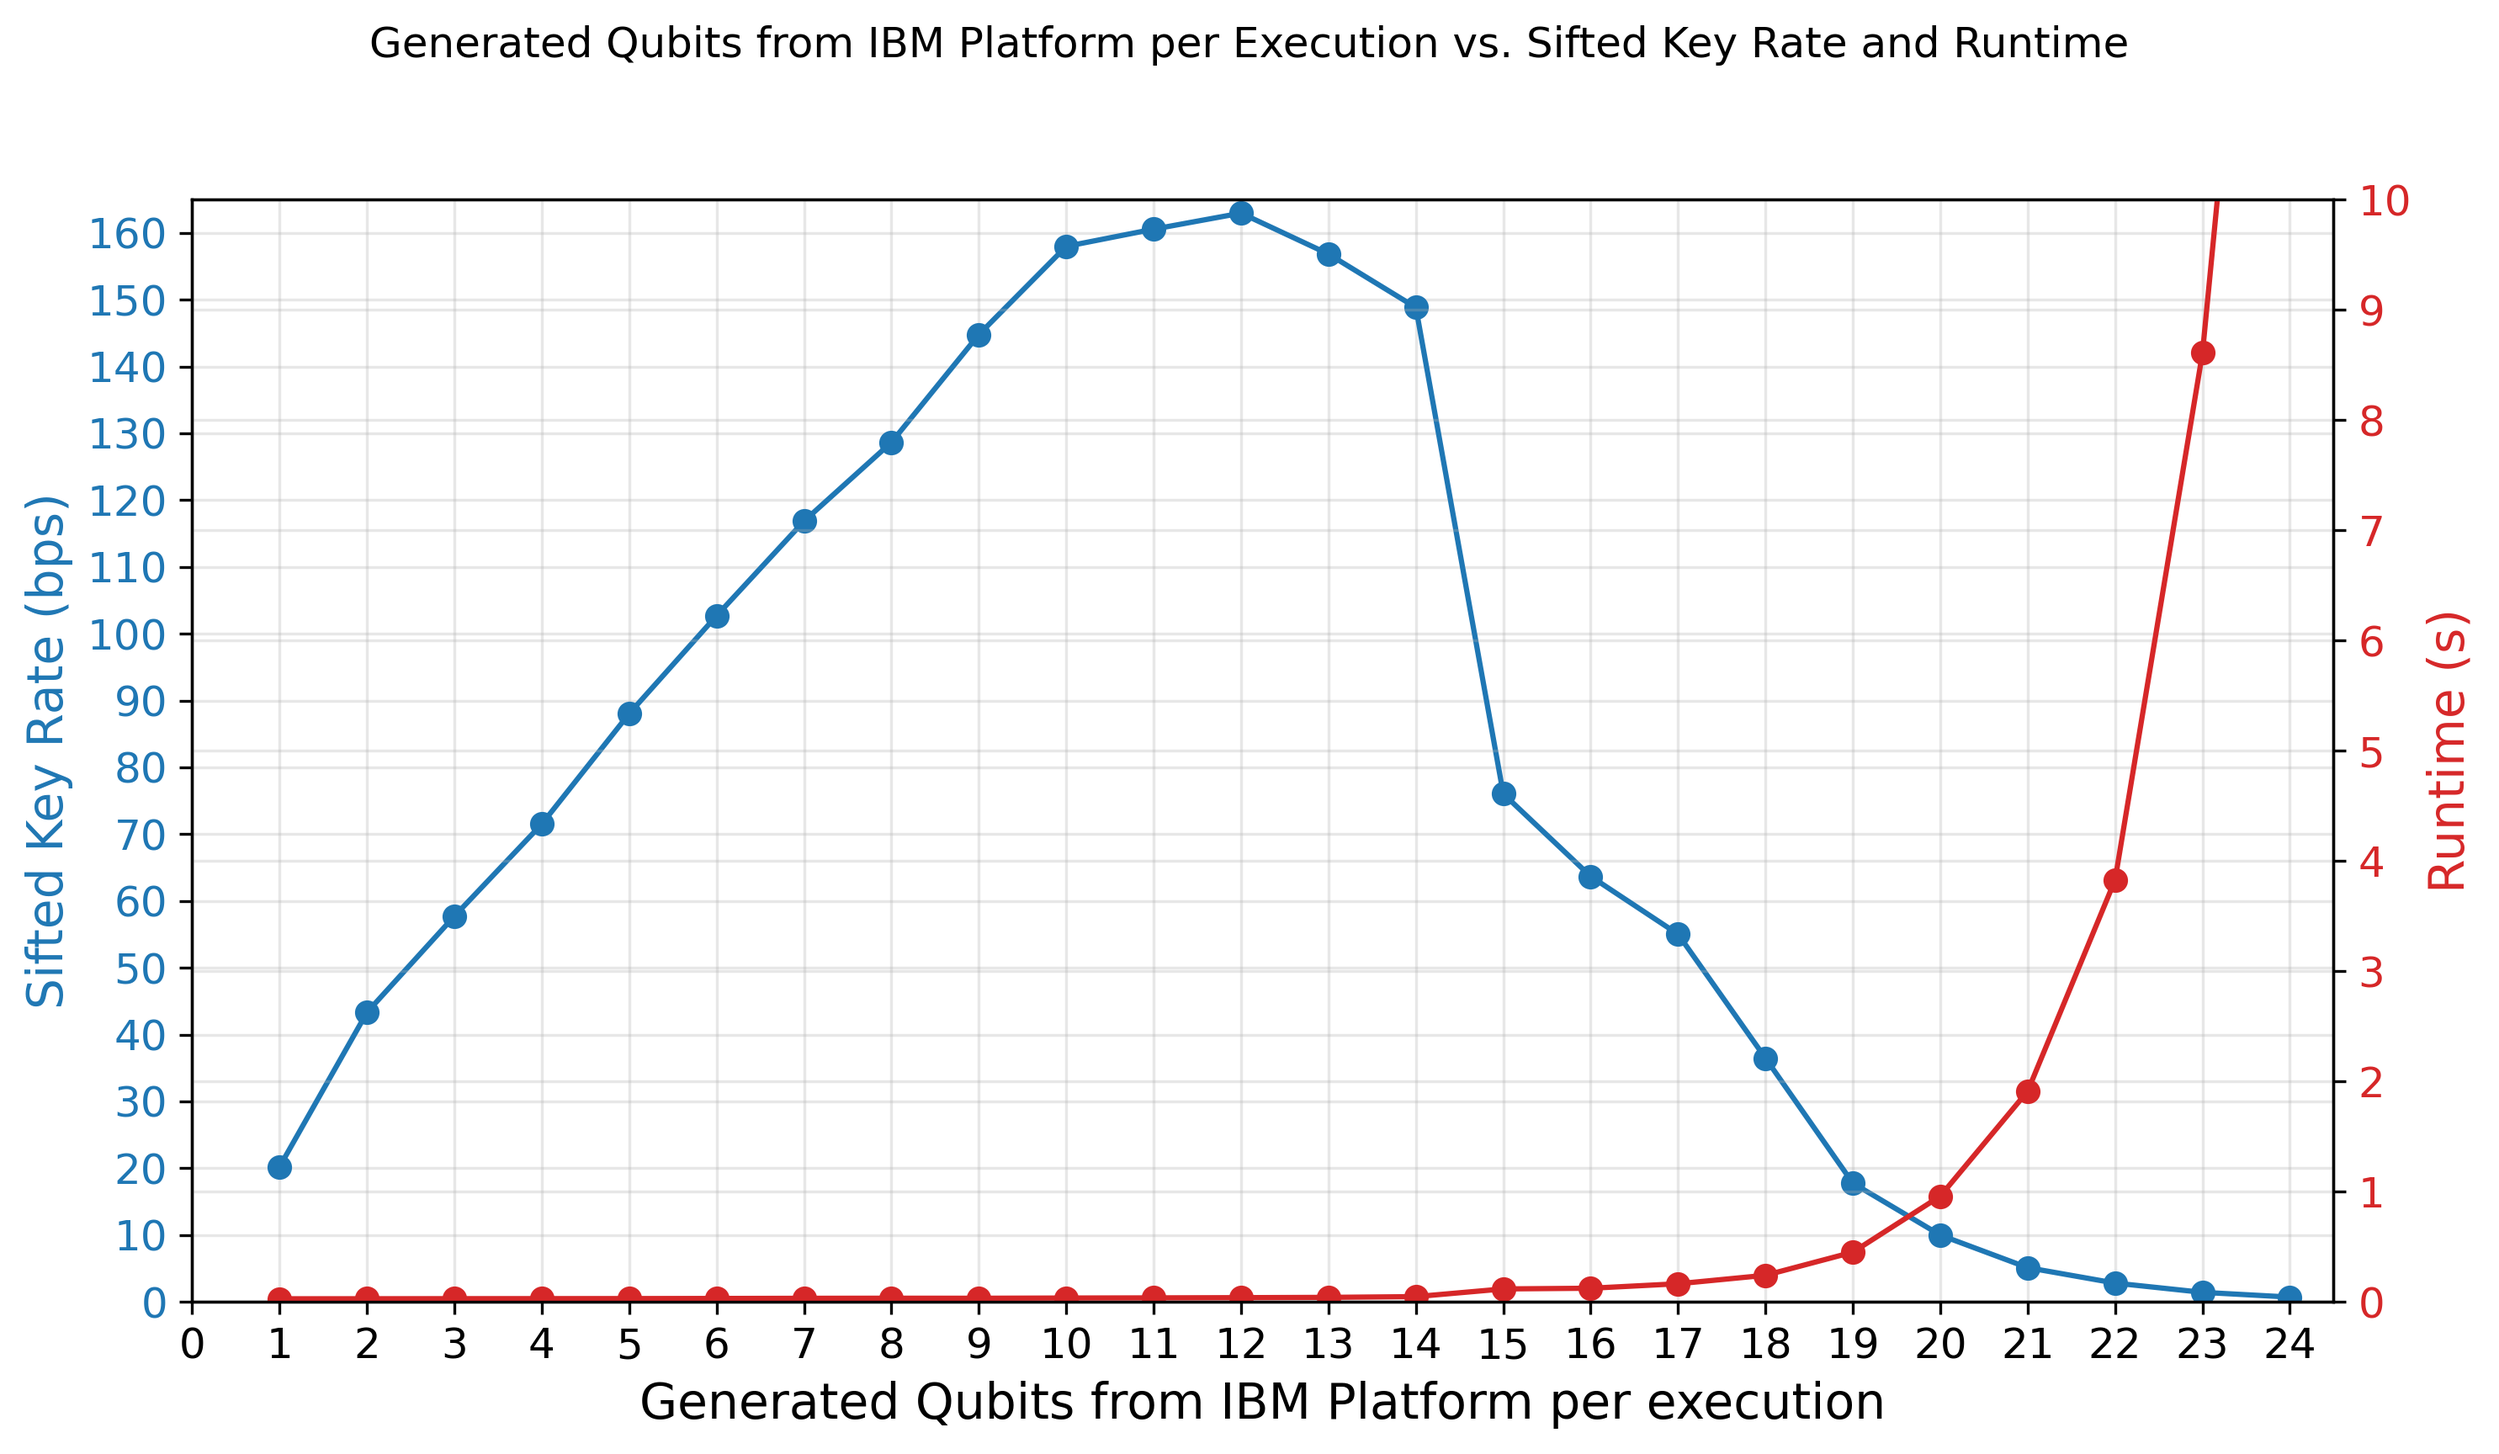
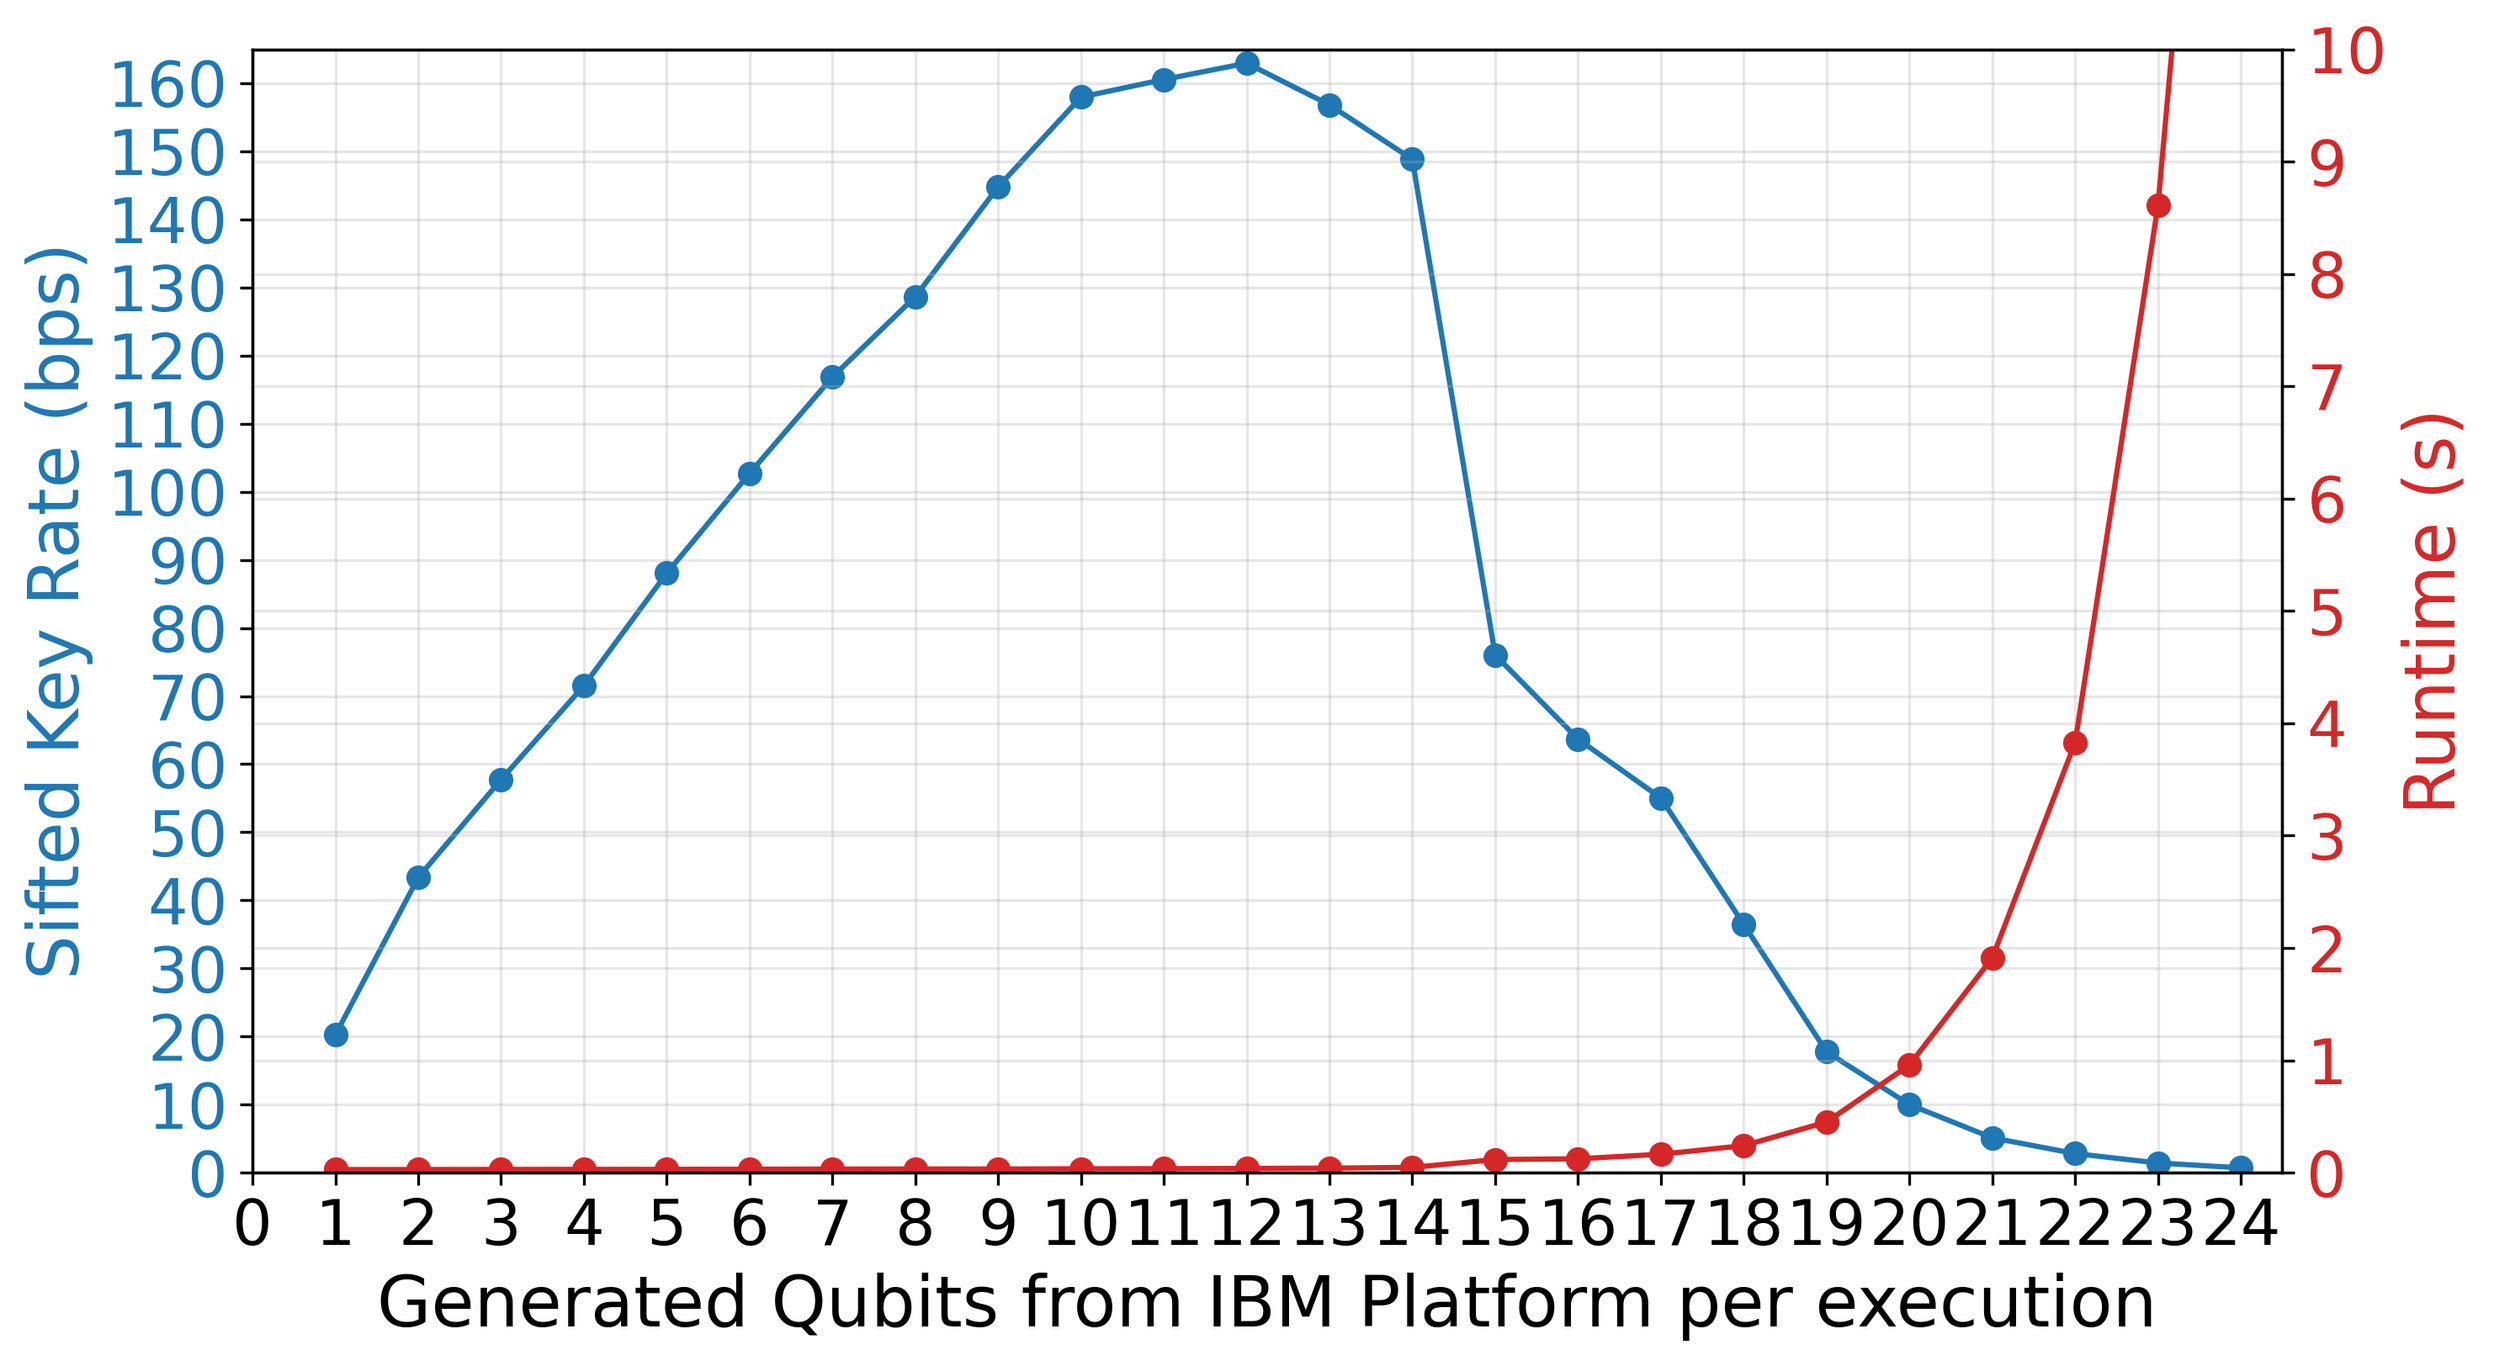
modify the character size

diff --git a/figure/qlength_vs_keyrateandruntime.py b/figure/qlength_vs_keyrateandruntime.py
@@ -18,11 +18,11 @@ Runtime = np.array([0.02770237684249878, 0.02807220220565796, 0.0287506818771362
 fig, ax1 = plt.subplots(figsize=(10, 6))
 
 color = 'tab:blue'
-ax1.set_xlabel('Generated Qubits from IBM Platform per execution', fontsize=14)
-ax1.set_ylabel('Sifted Key Rate (bps)', color=color, fontsize=14)
+ax1.set_xlabel('Generated Qubits from IBM Platform per execution', fontsize=20)
+ax1.set_ylabel('Sifted Key Rate (bps)', color=color, fontsize=20)
 ax1.plot(qbit, KeyRate, color=color, marker='o', label='Sifted Key Rate (bps)')
-ax1.tick_params(axis='y', labelcolor=color, labelsize=12)
-ax1.tick_params(axis='x', labelsize=12)
+ax1.tick_params(axis='y', labelcolor=color, labelsize=18)
+ax1.tick_params(axis='x', labelsize=18)
 ax1.set_ylim(0, 165)
 ax1.set_xlim(0, 24.5)
 ax1.set_xticks(np.arange(0, 25, 1))
@@ -31,14 +31,14 @@ ax1.grid(alpha=0.3)
 
 ax2 = ax1.twinx()
 color = 'tab:red'
-ax2.set_ylabel('Runtime (s)', color=color, fontsize=14)
+ax2.set_ylabel('Runtime (s)', color=color, fontsize=20)
 ax2.plot(qbit, Runtime, color=color, marker='o', label='Runtime (s)')
-ax2.tick_params(axis='y', labelcolor=color, labelsize=12)
+ax2.tick_params(axis='y', labelcolor=color, labelsize=18)
 ax2.set_ylim(0, 10)
 ax2.set_yticks(np.arange(0, 11, 1))
 ax2.grid(alpha=0.3)
 
-fig.suptitle('Generated Qubits from IBM Platform per Execution vs. Sifted Key Rate and Runtime')
+# fig.suptitle('Generated Qubits from IBM Platform per Execution vs. Sifted Key Rate and Runtime')
 fig.tight_layout(rect=[0, 0.03, 1, 0.95])
 
 plt.savefig('qlength_vs_keyrate_runtime.png', format='png', bbox_inches="tight", dpi=300)
